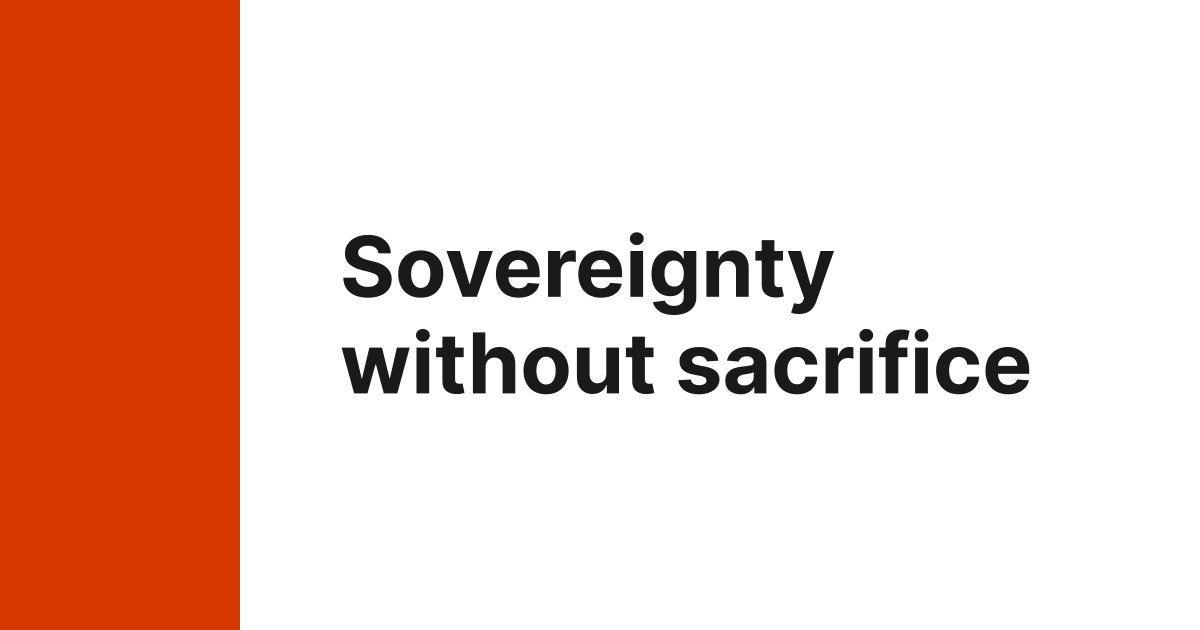
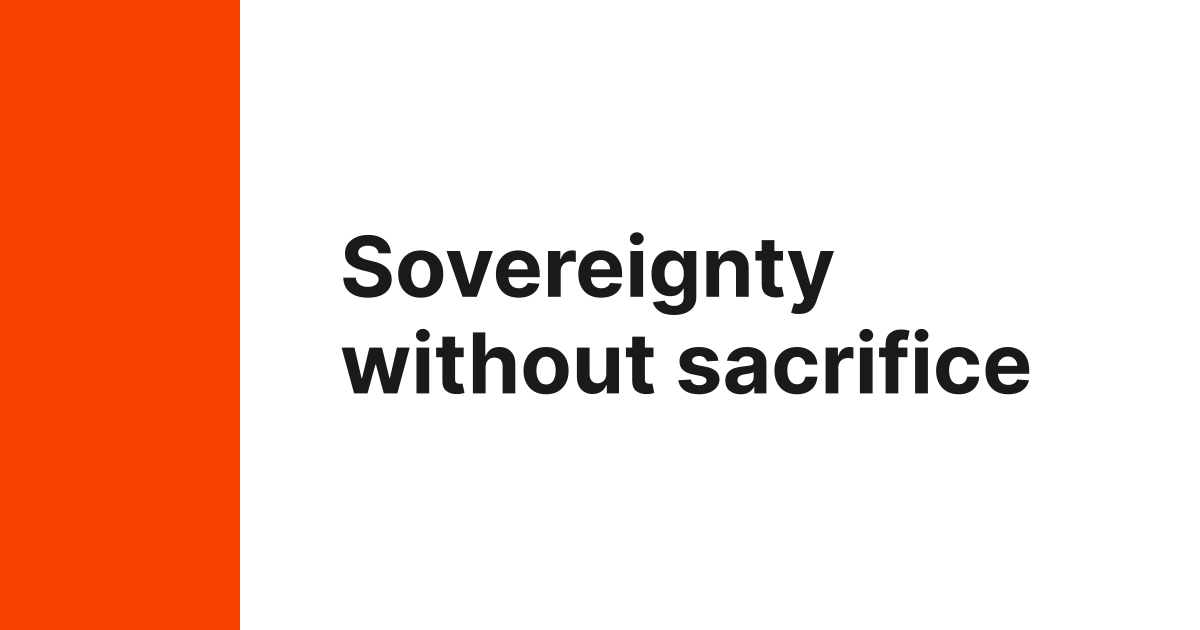
Use Trust Revolution brand orange for OG images
- Change orange panel from #d63900 to #F84200
- Brighter color provides maximum visual impact
- Solid panels don't need text contrast restrictions

🤖 Generated with [Claude Code](https://claude.com/claude-code)

Changed region(s): [[0.0, 0.0, 0.2158, 1.0]]

diff --git a/scripts/generate-og-images.js b/scripts/generate-og-images.js
@@ -69,7 +69,7 @@ async function generateOGImage(title, outputPath, format = 'landscape') {
               style: {
                 width: `${orangeWidth}px`,
                 height: `${orangeHeight}px`,
-                backgroundColor: '#d63900',
+                backgroundColor: '#F84200',
                 flexShrink: 0,
               },
             },
